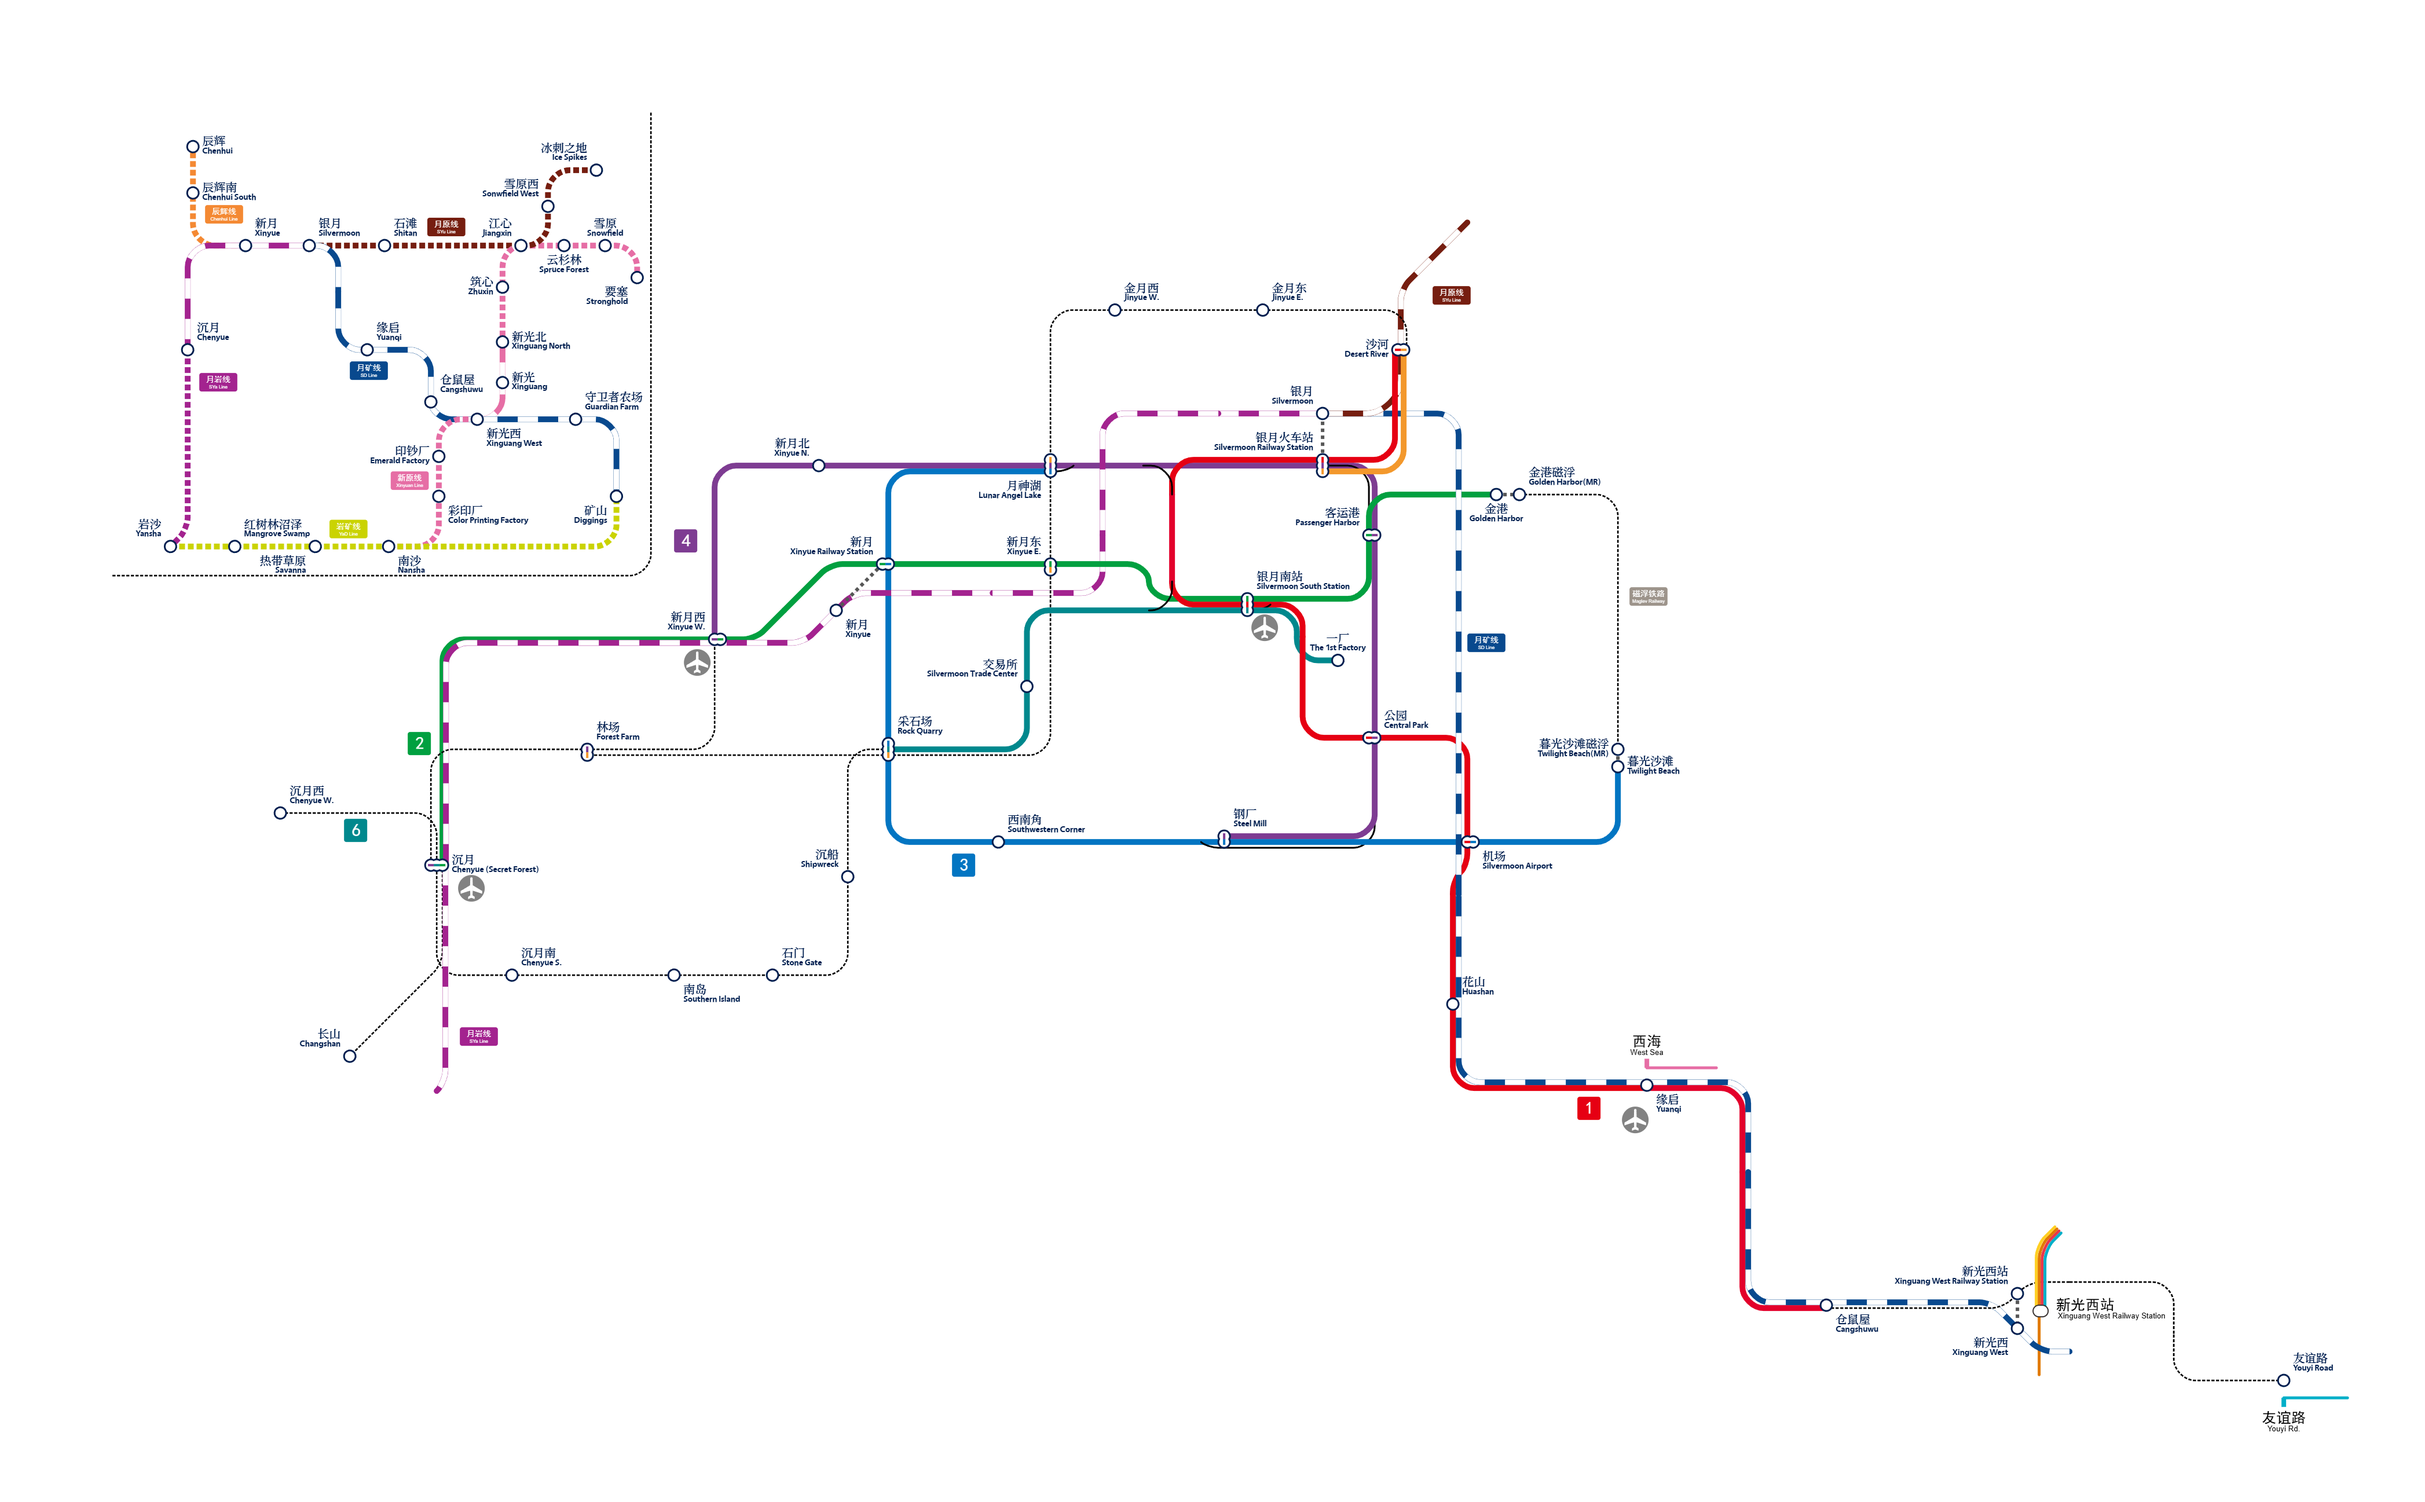
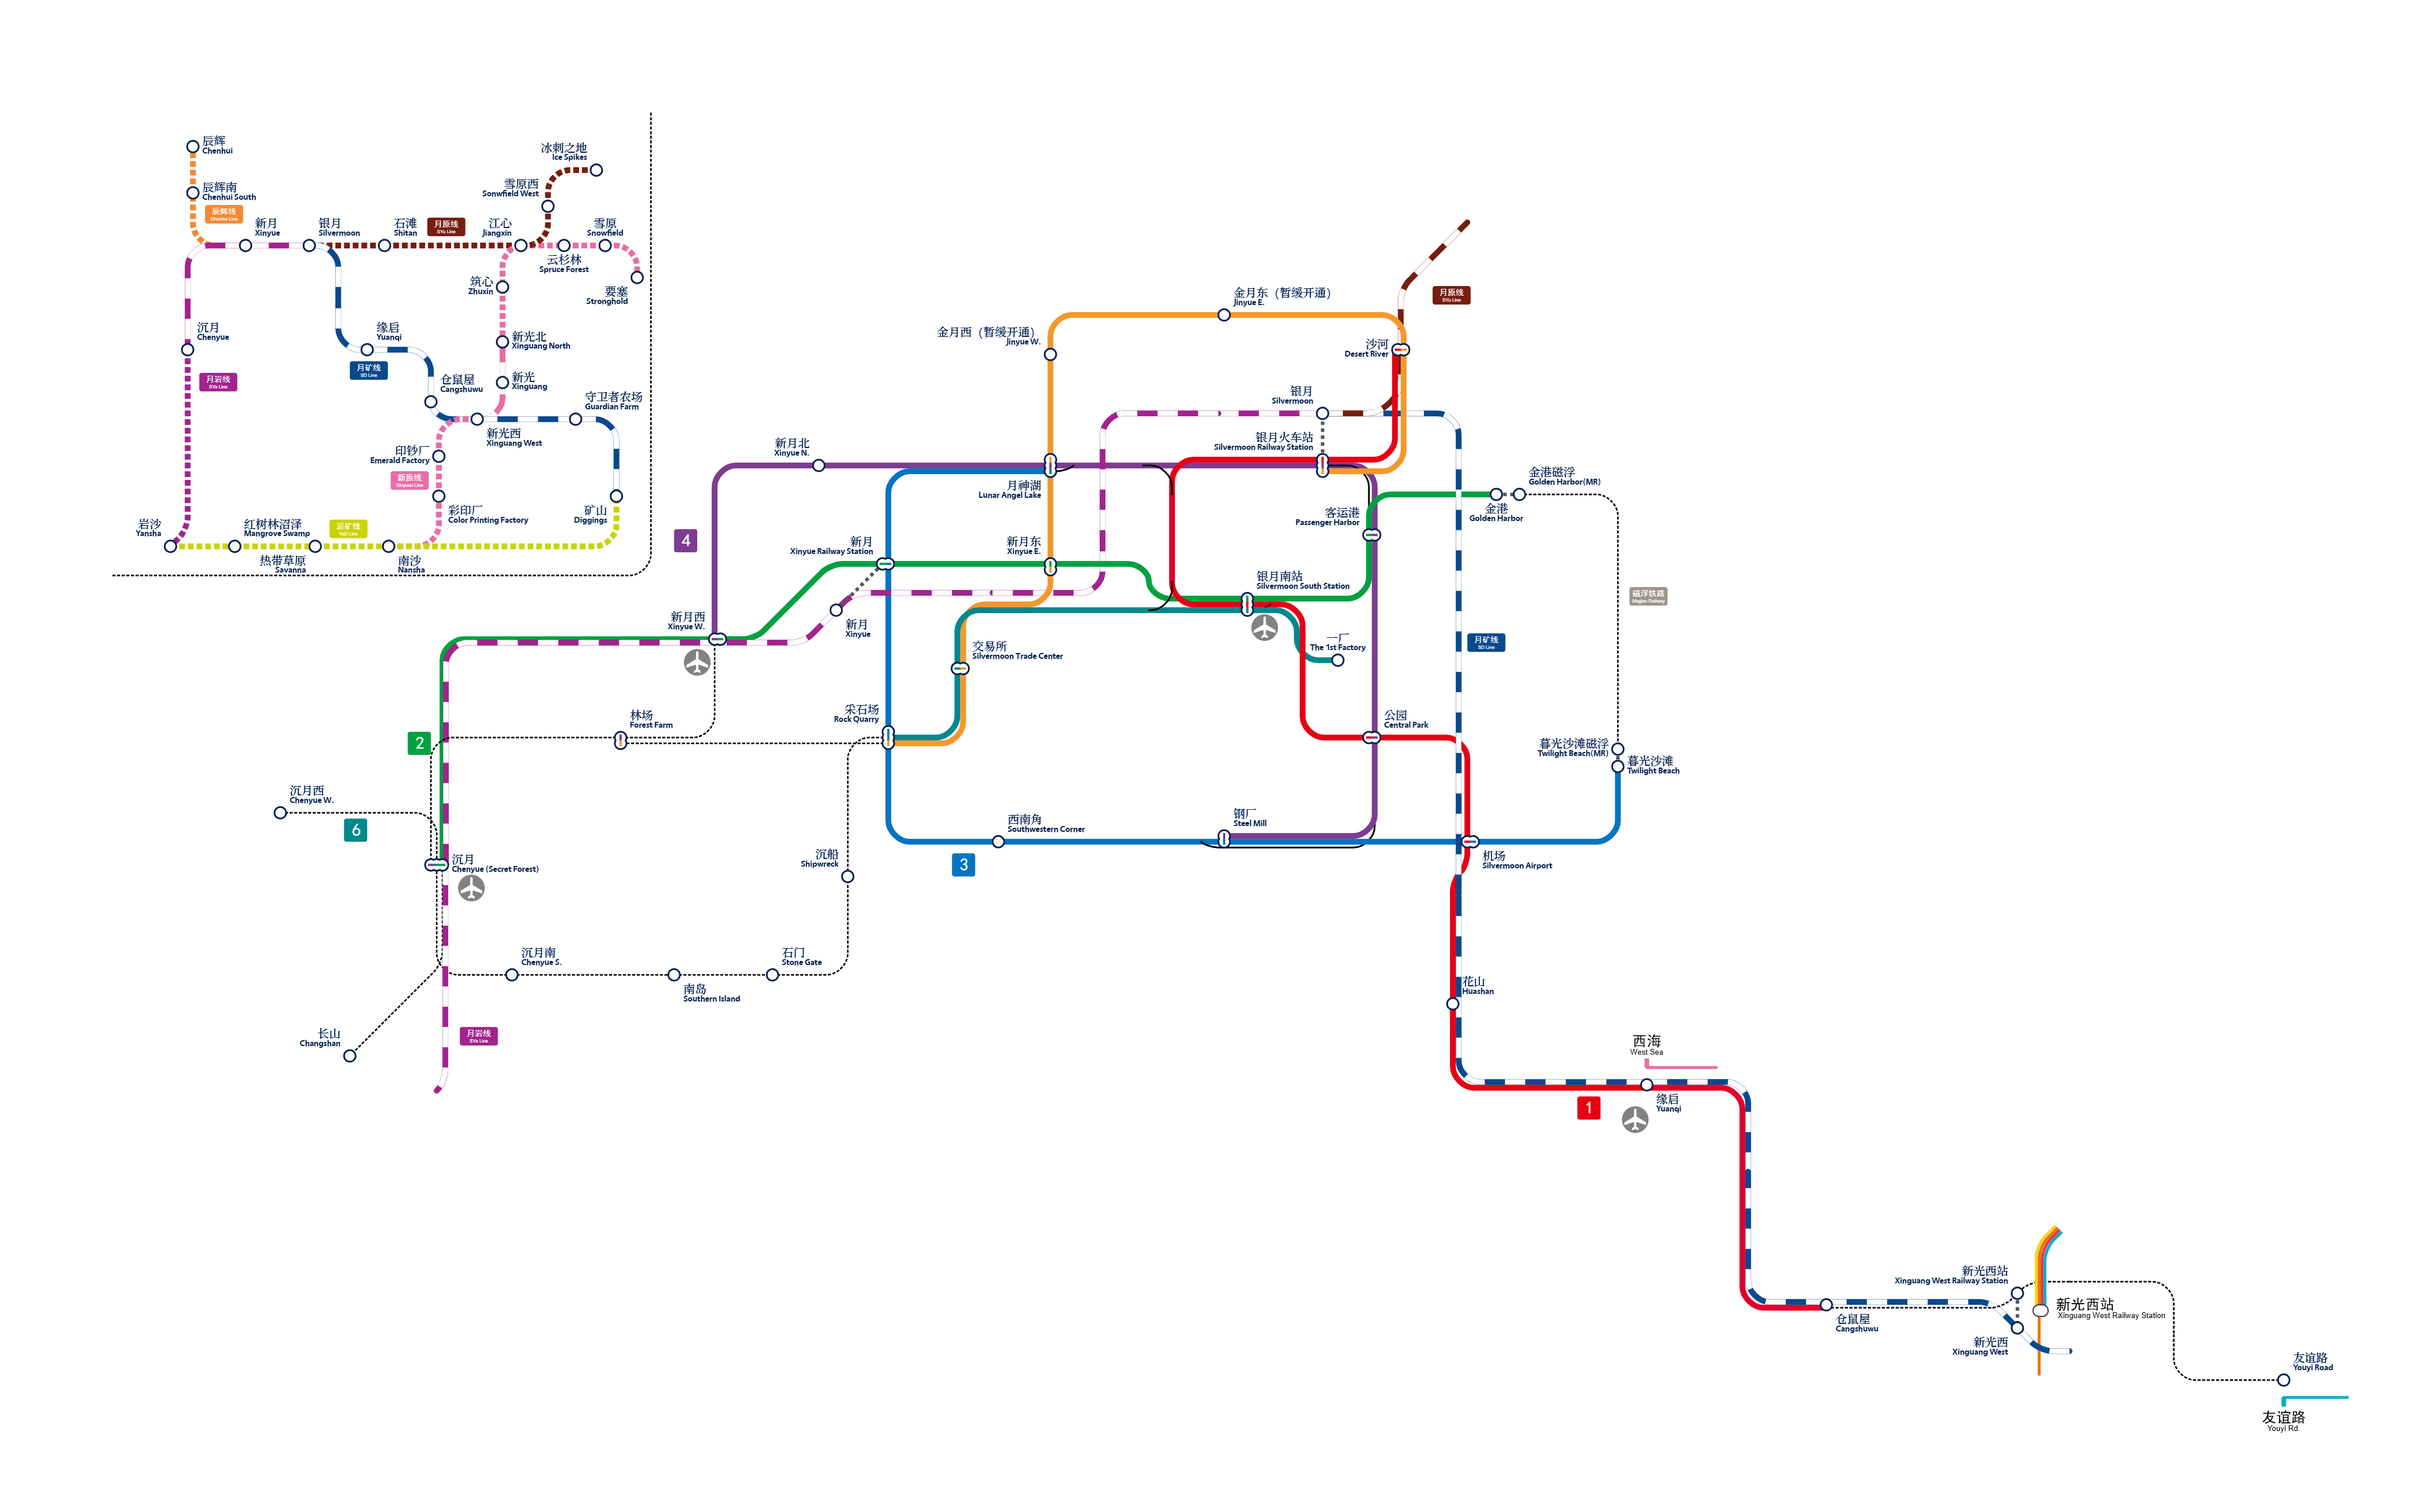
银月地铁进度更新

diff --git a/docs/servers/SurvivalIII/railway_transit/mileage.md b/docs/servers/SurvivalIII/railway_transit/mileage.md
@@ -89,8 +89,8 @@ description: 主世界铁路里程统计表。
 | :---: | :---: |
 | 金港 - 客运港 | 111 |
 | 客运港 - 银月南站 | 106 |
-| 银月南站 - 月神湖 | 122 |
-| 月神湖 - 新月 | 92 |
+| 银月南站 - 新月东 | 122 |
+| 新月东 - 新月 | 92 |
 | 新月 - 新月西 | 126 |
 | **总计** | **557** |
 
@@ -103,7 +103,7 @@ description: 主世界铁路里程统计表。
 | 南门 - 西南角 | 168 |
 | 西南角 - 采石场 | 103 |
 | 采石场 - 新月 | 117 |
-| 新月 - 月神湖北 | 96 |
+| 新月 - 月神湖 | 96 |
 | **总计** | **664** |
 
 ### 4 号线
@@ -111,8 +111,8 @@ description: 主世界铁路里程统计表。
 | 站名 | 站间距（m） |
 | :---: | :---: |
 | 新月西 - 新月北 | 151 |
-| 新月北 - 月神湖北 | 92 |
-| 月神湖北 - 银月火车站 | 121 |
+| 新月北 - 月神湖 | 92 |
+| 月神湖 - 银月火车站 | 121 |
 | 银月火车站 - 客运港 | 73 |
 | 客运港 - 公园 | 136 |
 | 公园 - 南门 | 85 |
@@ -122,8 +122,13 @@ description: 主世界铁路里程统计表。
 
 | 站名 | 站间距（m） |
 | :---: | :---: |
-| 沙河 - 折返线尽头 | 55 |
-| **总计** | **55** |
+| 沙河 - 金月东（暂缓） | - |
+| 金月东（暂缓） - 金月西（暂缓） | - |
+| 金月西（暂缓） - 月神湖 | - |
+| 月神湖 - 新月东 | - |
+| 新月东 - 交易所 | - |
+| 交易所 - 采石场 | - |
+| **总计** | **-** |
 
 ### 6 号线
 

diff --git a/docs/servers/SurvivalIII/railway_transit/silvermoon.md b/docs/servers/SurvivalIII/railway_transit/silvermoon.md
@@ -23,7 +23,7 @@ description: 了解银月地铁迅猛发展的背后。
 - **2 号线**：金港 — 长山，「新月（不含） — 长山（不含）」段贯通国铁月岩线，共 8 站；
 - **3 号线**：月神湖北 — 暮光沙滩，「南门 — 月神湖北」段与 4 号线建设联络线成环线，共 7 站；
 - **4 号线**：南门 — 沉月，「月神湖北 — 南门」段与 3 号线建设联络线成环线，共 9 站;
-- **5 号线**：银月火车站 — 林场，「银月火车站 — 新月（不含）」段贯通国铁月原线，共 8 站；
+- **5 号线**：银月火车站 — 林场，「银月火车站 — 新月（不含）」段贯通国铁月原线，共 9 站；
 - **6 号线**：沉月西 — 一厂，单线（仅银月南站前后与 1 号线共线部分为复线），共 10 站。
 
 另外远期计划建设一条连接金港和暮光沙滩的磁悬浮铁路（具体的建设风格待定）。

diff --git a/docs/servers/SurvivalIII/railway_transit/history.md b/docs/servers/SurvivalIII/railway_transit/history.md
@@ -78,3 +78,4 @@ description: 了解主世界铁路庞大网络的过往。
 | 25.02.05 | 城际铁路 | 银月站配线改造完毕，月矿线、月原线与月岩线直通运营 | 待后续计算 | 待后续计算 |
 | 25.05.15 | 银月 6 号线 | 银月南站 - 一厂折返线 开通运营 | 待后续计算 | 待后续计算 |
 | 25.06.12 | 银月地铁 | 更名 月神湖 → 新月东、月神湖北 → 月神湖 | - | - |
+| 25.09.09 | 银月 5 号线 | 沙河 - 采石场 开通运营 | 待后续计算 | 待后续计算 |
